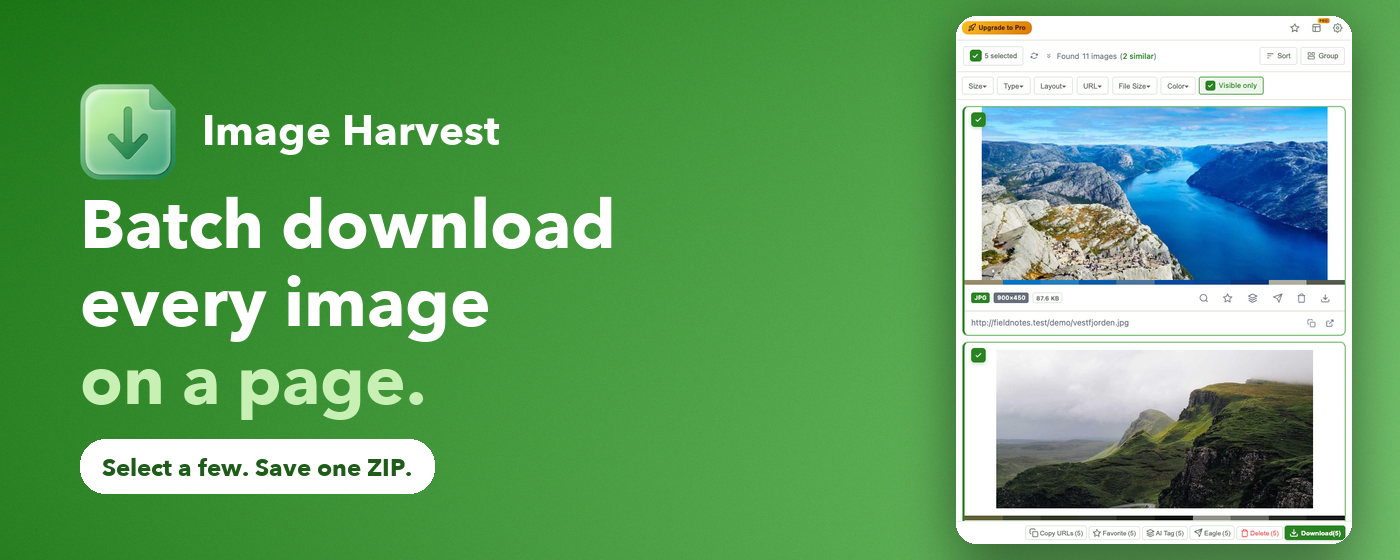
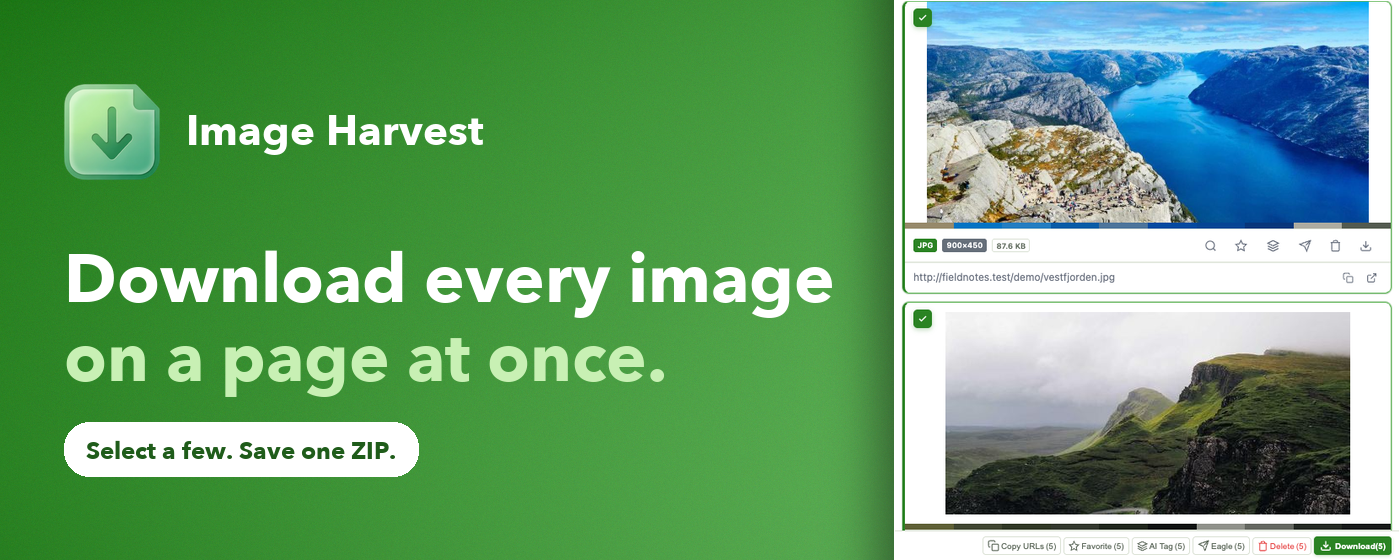
chore(store): let both promo tiles fill their frame
small tile: the icon and the four text rows now share one centre line
(y=140) instead of floating apart, and the icon grows to 144px, half the
tile height. Margins are 28/35 left-right and 68/68 top-bottom, so no
side reads as emptier than another.

top tile: the panel was 396px of a 1400px banner. It now starts at the
card grid (y=136) instead of cutting through the toolbar, which makes the
capture 600x664, so at full height it is 506px wide -- 28% wider -- and
bleeds off the top, right and bottom. The headline fits at 68px and stops
59px short of the panel.

diff --git a/scripts/make-cws-hero.py b/scripts/make-cws-hero.py
@@ -91,19 +91,24 @@ def backdrop(w, h):
     return Image.fromarray(np.clip(rgb, 0, 255).astype(np.uint8), "RGB").convert("RGBA")
 
 
-def panel_capture(w, h):
-    shot = Image.open(PANEL_SRC).convert("RGB").crop(PANEL_CROP)
+def panel_capture(w, h, crop=PANEL_CROP):
+    shot = Image.open(PANEL_SRC).convert("RGB").crop(crop)
     return shot.resize((w, h), Image.LANCZOS).convert("RGBA")
 
 
-def paste_panel(canvas, x, y, w, h, radius=20):
-    shot = panel_capture(w, h)
+def paste_panel(canvas, x, y, w, h, radius=20, crop=PANEL_CROP, shadow_offset=(0, 12)):
+    shot = panel_capture(w, h, crop)
     mask = Image.new("L", (w, h), 0)
-    ImageDraw.Draw(mask).rounded_rectangle([0, 0, w - 1, h - 1], radius=radius, fill=255)
+    box = ImageDraw.Draw(mask)
+    if radius:
+        box.rounded_rectangle([0, 0, w - 1, h - 1], radius=radius, fill=255)
+    else:
+        box.rectangle([0, 0, w - 1, h - 1], fill=255)
 
+    sx, sy = shadow_offset
     shadow = Image.new("RGBA", canvas.size, (0, 0, 0, 0))
     ImageDraw.Draw(shadow).rounded_rectangle(
-        [x, y + 12, x + w - 1, y + h + 12], radius=radius, fill=(0, 0, 0, 120)
+        [x + sx, y + sy, x + w - 1 + sx, y + h - 1 + sy], radius=radius, fill=(0, 0, 0, 120)
     )
     canvas.alpha_composite(shadow.filter(ImageFilter.GaussianBlur(26)))
     canvas.paste(shot, (x, y), mask)
@@ -187,17 +192,21 @@ def write_small(path):
     canvas = backdrop(W, H)
     draw = ImageDraw.Draw(canvas)
 
-    plate = icon_mark(canvas, 64, 64, 88)
+    # 440x280 is a third of the hero's height, so the same lockup at hero scale
+    # left the tile two-thirds empty. The icon now takes half the height, and
+    # both halves are centred on the same horizontal line (y=140): icon spans
+    # 68-212, the four text rows span 76-204. Margins land at 28/35 left-right
+    # and 68/68 top-bottom, so no side looks emptier than another.
+    # Brand 30 and tagline 18 are the largest sizes whose widest line still
+    # clears a 216px column.
+    plate = icon_mark(canvas, 28, 68, 144)
     draw = ImageDraw.Draw(canvas)
 
-    # Centred as a block: icon + text spans 64..369 on a 440 canvas.
-    # Bold at 18, not regular: the small tile's text sits on the mid-ramp of the
-    # gradient, where regular white lands at about 3:1 and reads thin.
-    tx = 64 + plate + 24
-    draw.text((tx, 112), "Image Harvest", font=font(BOLD, 27), fill=WHITE, anchor="ls")
-    draw.text((tx, 150), "Batch download", font=font(BOLD, 18), fill=WHITE, anchor="ls")
-    draw.text((tx, 176), "every image on a page.", font=font(BOLD, 18), fill=WHITE, anchor="ls")
-    draw.text((tx, 216), "Free  ·  Chrome & Edge", font=font(BOLD, 14), fill=MINT, anchor="ls")
+    tx = 28 + plate + 20
+    draw.text((tx, 97), "Image Harvest", font=font(BOLD, 30), fill=WHITE, anchor="ls")
+    draw.text((tx, 129), "Batch download", font=font(BOLD, 18), fill=WHITE, anchor="ls")
+    draw.text((tx, 153), "every image on a page.", font=font(BOLD, 18), fill=WHITE, anchor="ls")
+    pill(draw, tx, 193, "Free  ·  Chrome & Edge", size=14, pad_x=16, pad_y=9)
 
     path.parent.mkdir(parents=True, exist_ok=True)
     canvas.convert("RGB").save(path, "PNG")
@@ -209,29 +218,39 @@ def write_top(path):
     canvas = backdrop(W, H)
     draw = ImageDraw.Draw(canvas)
 
-    pw, ph = 396, 528
-    px, py = W - pw - 48, 16
-    paste_panel(canvas, px, py, pw, ph)
+    # The panel bleeds off the top, right and bottom edges. Cutting at y=136 is
+    # the card grid's first row: everything above it is the toolbar and filter
+    # row, and a cut anywhere inside those two left half-drawn labels sitting on
+    # the banner's top edge (y=60 did exactly that). Dropping both rows makes the
+    # capture 600x664 instead of 600x800, which at 560 tall is 506 wide -- 28%
+    # wider than the 396px the first pass used and 11% wider than 454.
+    pw, ph = 506, 560
+    px, py = W - pw, 0
+    paste_panel(canvas, px, py, pw, ph, radius=0, crop=(680, 136, 1280, 800),
+                shadow_offset=(-14, 0))
     draw = ImageDraw.Draw(canvas)
 
-    col = 80
-    col_w = px - 64 - col
+    col = 64
+    col_w = px - 56 - col
 
     plate = icon_mark(canvas, col, 84, 96)
     draw = ImageDraw.Draw(canvas)
     draw.text((col + plate + 26, 84 + plate / 2), "Image Harvest",
               font=font(BOLD, 42), fill=WHITE, anchor="lm")
 
-    lines = ["Batch download", "every image", "on a page."]
-    # 68 is the ceiling: at 76 the first line sat directly under the wordmark.
-    size = fit_size(draw, lines, BOLD, col_w, 68, 48)
-    line = round(size * 1.14)
-    base = 248
+    # Two lines instead of three: "Batch download" alone left 100px of dead ramp
+    # between the copy and the panel, which is what made the banner look split.
+    # At 768px of column the fit lands on 68px, and the longest line stops 59px
+    # short of the panel -- close enough that the two halves read as one block.
+    lines = ["Download every image", "on a page at once."]
+    size = fit_size(draw, lines, BOLD, col_w, 76, 48)
+    line = round(size * 1.16)
+    base = 302
     for i, text in enumerate(lines):
         draw.text((col, base + i * line), text,
-                  font=font(BOLD, size), fill=MINT if i == 2 else WHITE, anchor="ls")
+                  font=font(BOLD, size), fill=MINT if i == 1 else WHITE, anchor="ls")
 
-    pill(draw, col, base + 2 * line + 72, "Select a few. Save one ZIP.", size=24)
+    pill(draw, col, base + line + 78, "Select a few. Save one ZIP.", size=24)
 
     path.parent.mkdir(parents=True, exist_ok=True)
     canvas.convert("RGB").save(path, "PNG")

diff --git a/docs/chrome-store/listing-optimization-2026-10.md b/docs/chrome-store/listing-optimization-2026-10.md
@@ -69,9 +69,13 @@ CWS 搜索结果页（`/search/...`）每个结果项除图标、评分、短描
   `#7cc975`，两端都取自 `css/variables.css`）+ 左侧 69px 三行标题、副标与
   Free 徽标 + 右侧 `batch-select-1280.png` 的 600px 面板（缩至 564×752，圆角加
   投影，右/上/下各留 24px）。
-- `assets/promo/small-new.png`（440×280）与 `assets/promo/top-new.png`（1400×560）：
-  同一套渐变、字体与文案。top 版同样贴真实面板；small 版只有 440px，放面板会糊，
-  因此只留图标 + 三行字。
+- `assets/promo/small-new.png`（440×280）：同一套渐变与字体。图标 144px（占画布
+  高度 51%），与右侧四行文字共用一个水平中线（y=140）；左右留白 28/35px，上下 68/68px。
+  440px 宽放面板会糊，所以这一张只有图标 + 品牌 + 两行副标 + Free 徽标。
+- `assets/promo/top-new.png`（1400×560）：面板从 `y=136`（卡片网格第一行）开始裁，
+  丢掉工具栏与筛选行，600×664 缩到 506×560 并三边出血。比首版 396px 宽 28%，
+  最长文案行距面板只剩 59px，两半读成一块。
+  注：裁 `y=60` 会正好切在工具栏中间，顶部留下半截「5 selected / Sort / Group」。
 - `scripts/make-cws-hero.py`：一次生成这三张；改文案后重跑，不必回到图形工具。
   渐变方向、暗角与噪点都在这里，三张图不会各自漂移。
 
